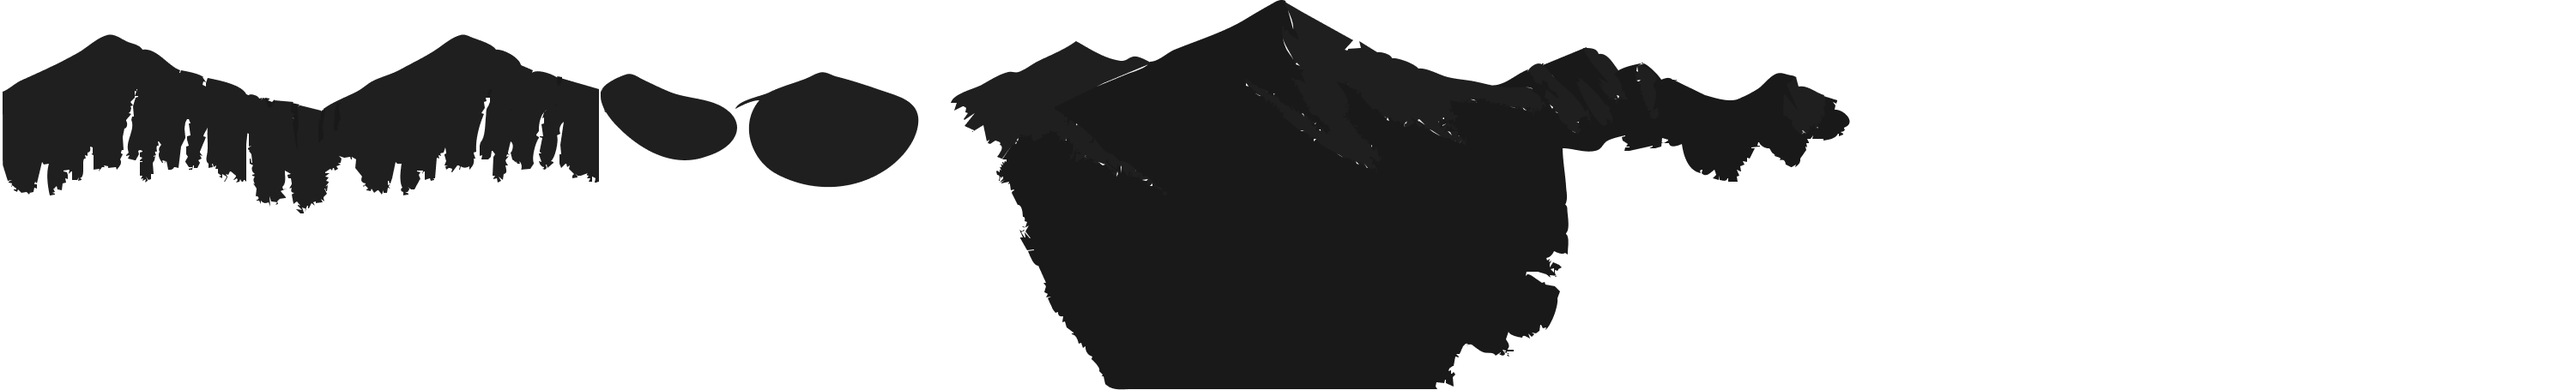
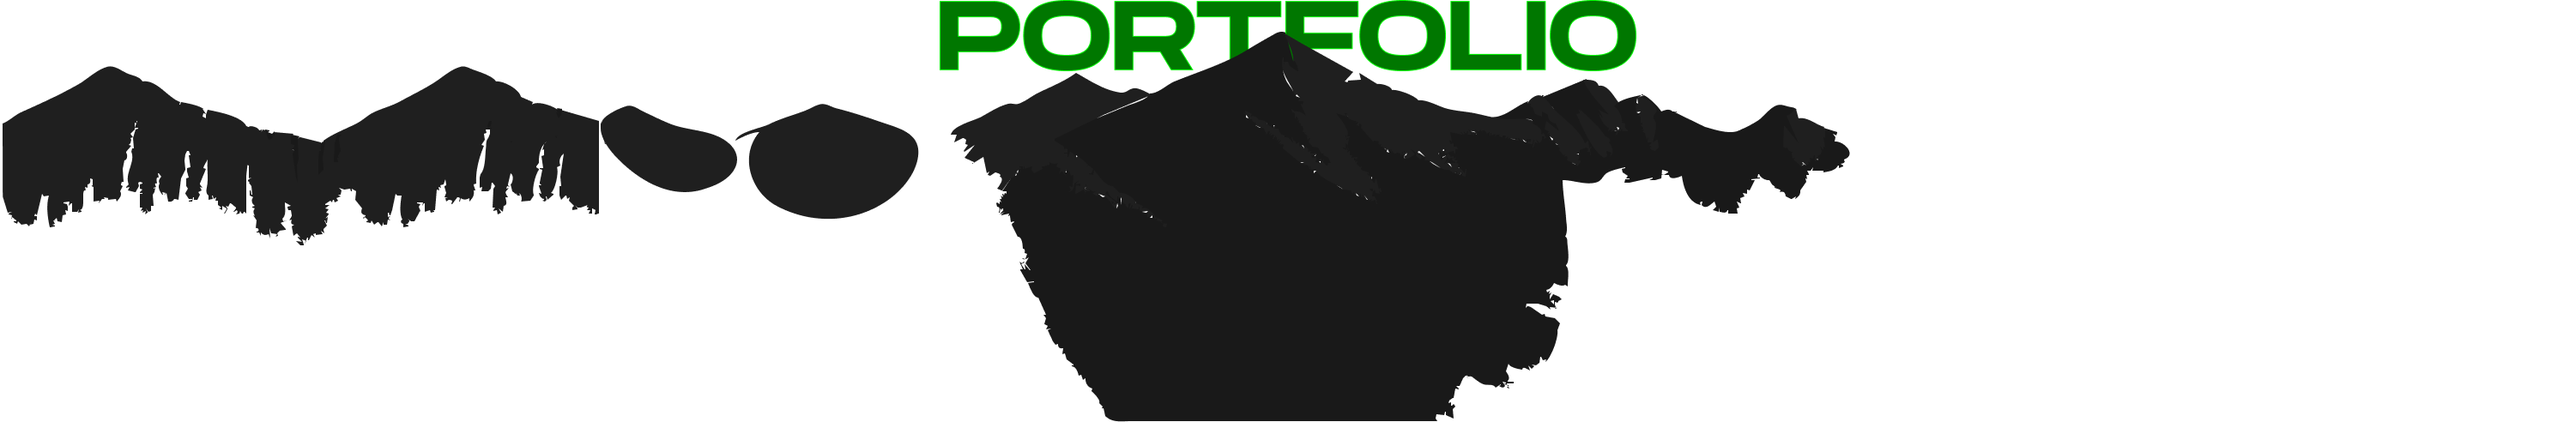
💄 fe hero

diff --git a/styles/globals.css b/styles/globals.css
@@ -1017,3 +1017,11 @@ a {
   transform: translateZ(0px) scale(1);
 }
 
+.fe-hero{
+  font-family: 'Monument Extended', sans-serif;
+  font-weight: 400;
+  font-size: 6.75em;
+  line-height: 1em;
+  color: rgb(43, 43, 43);
+  
+}
